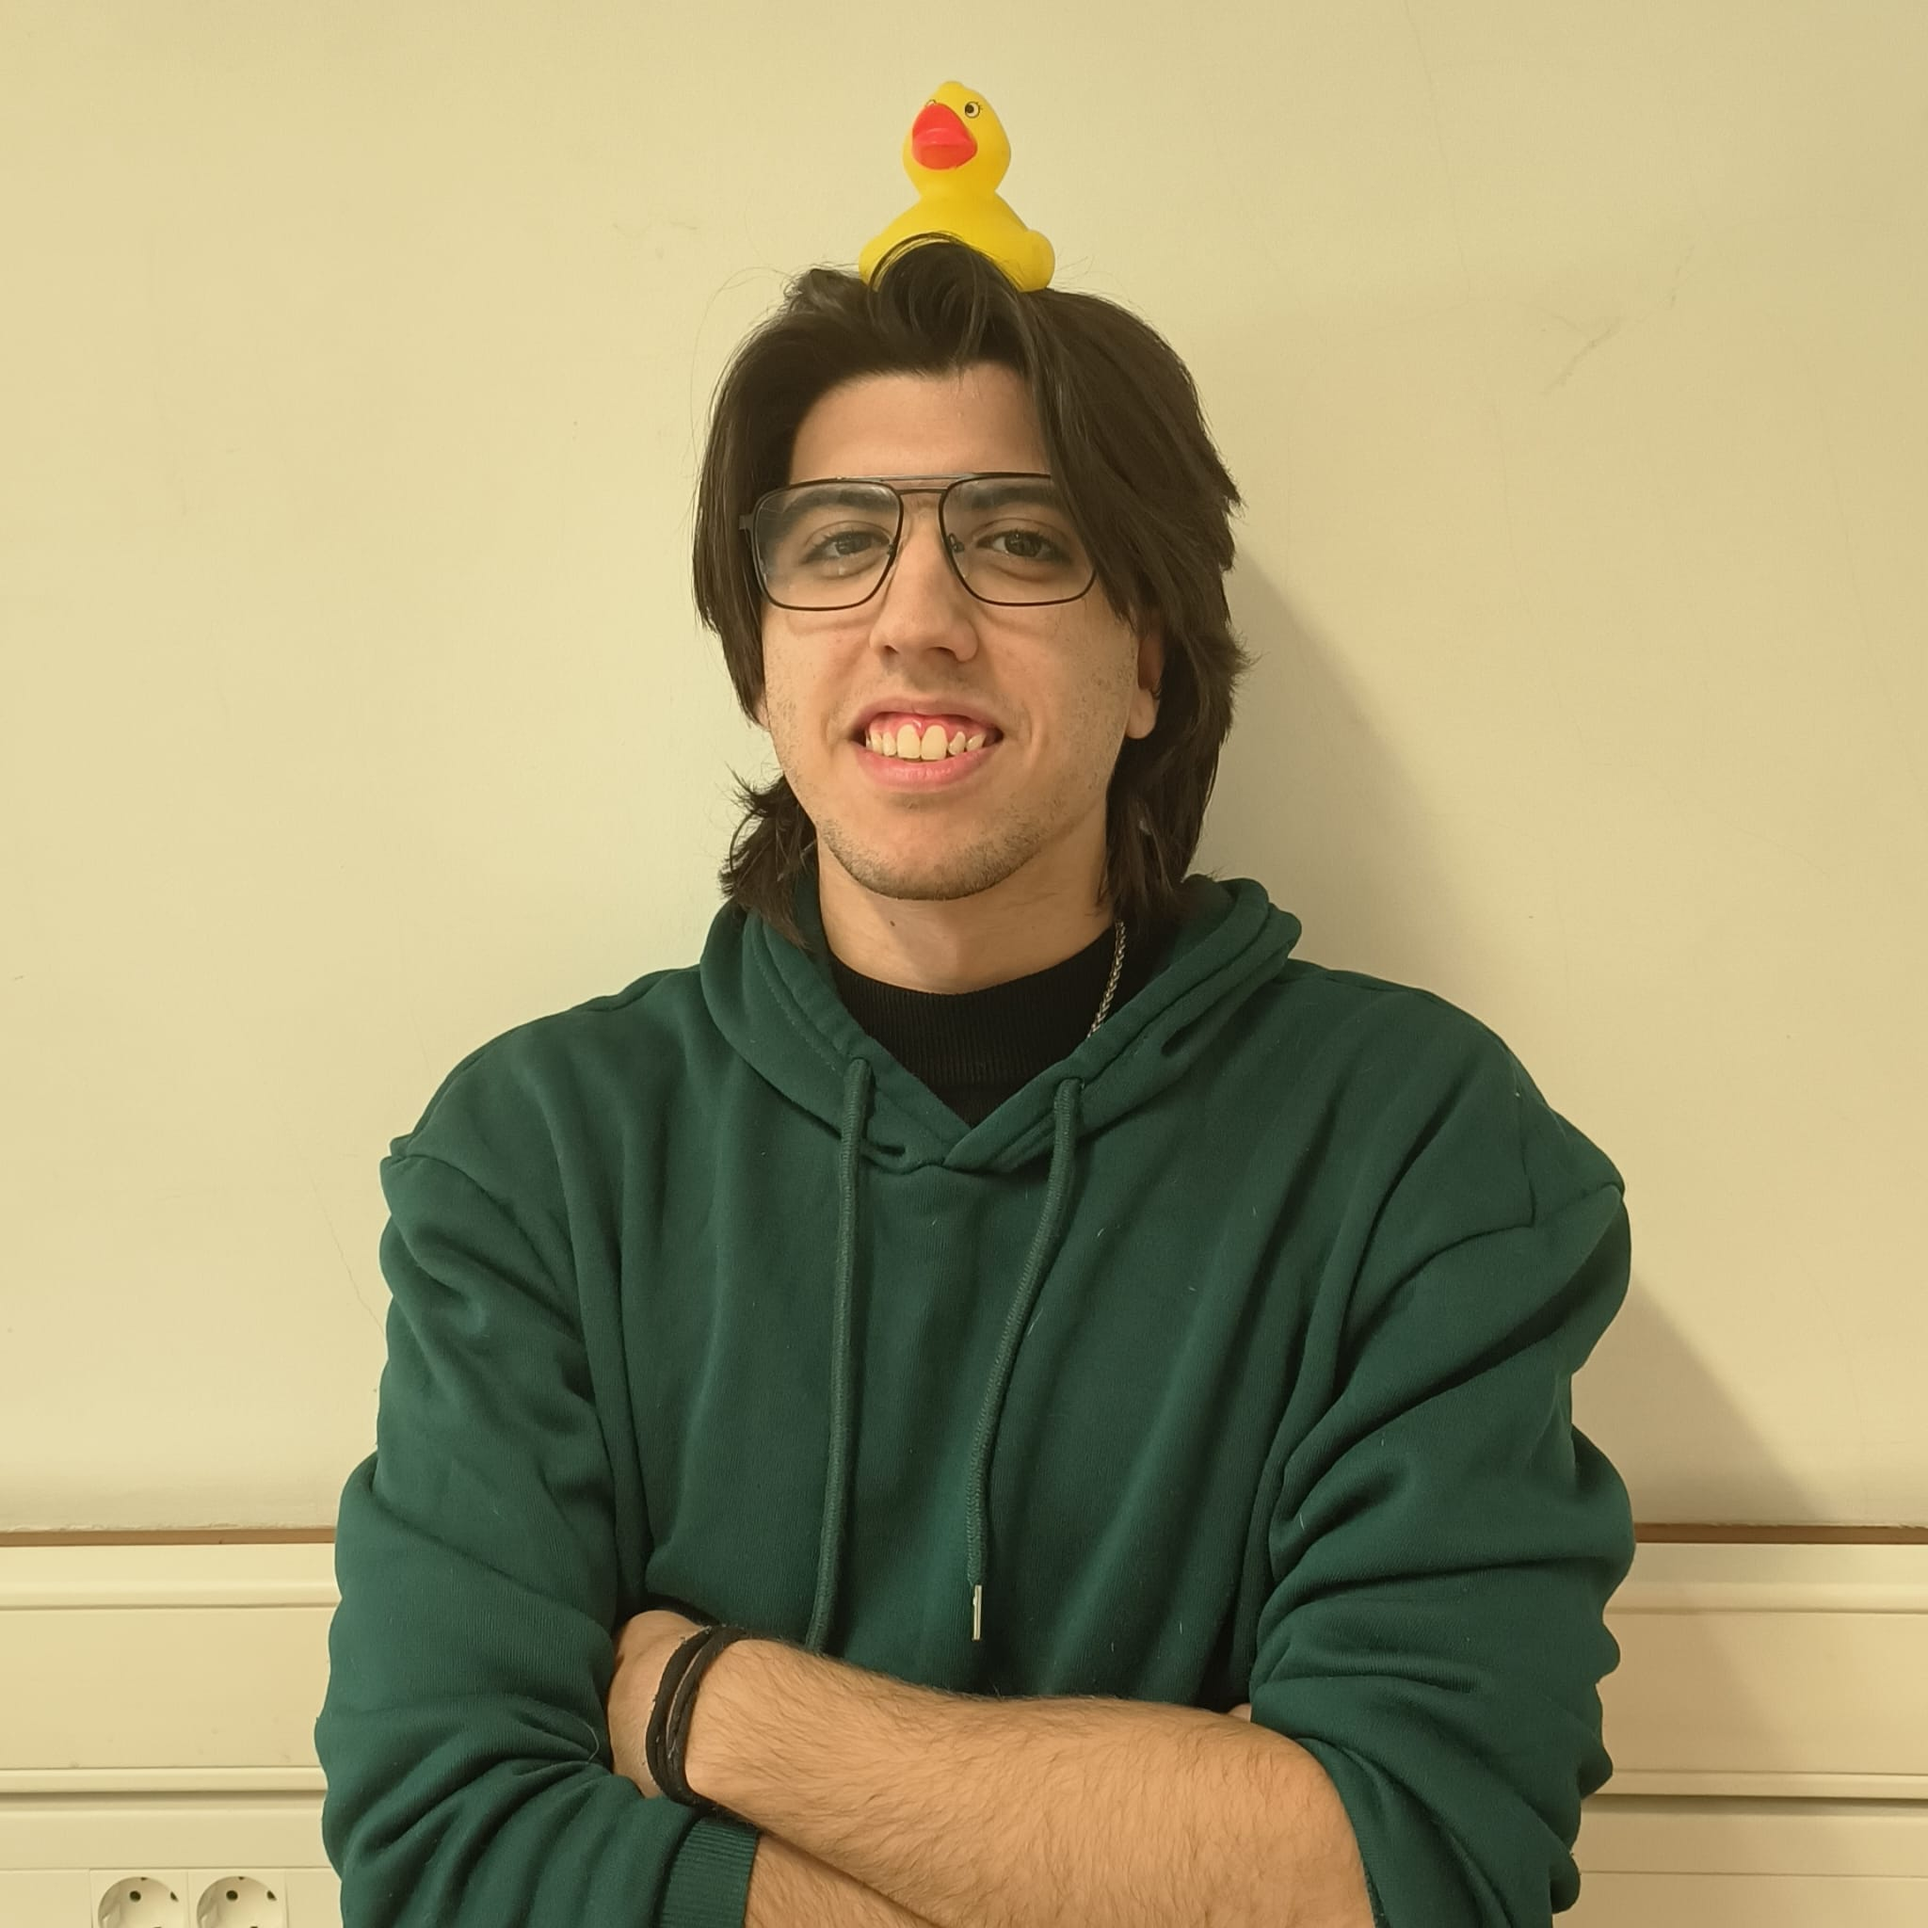
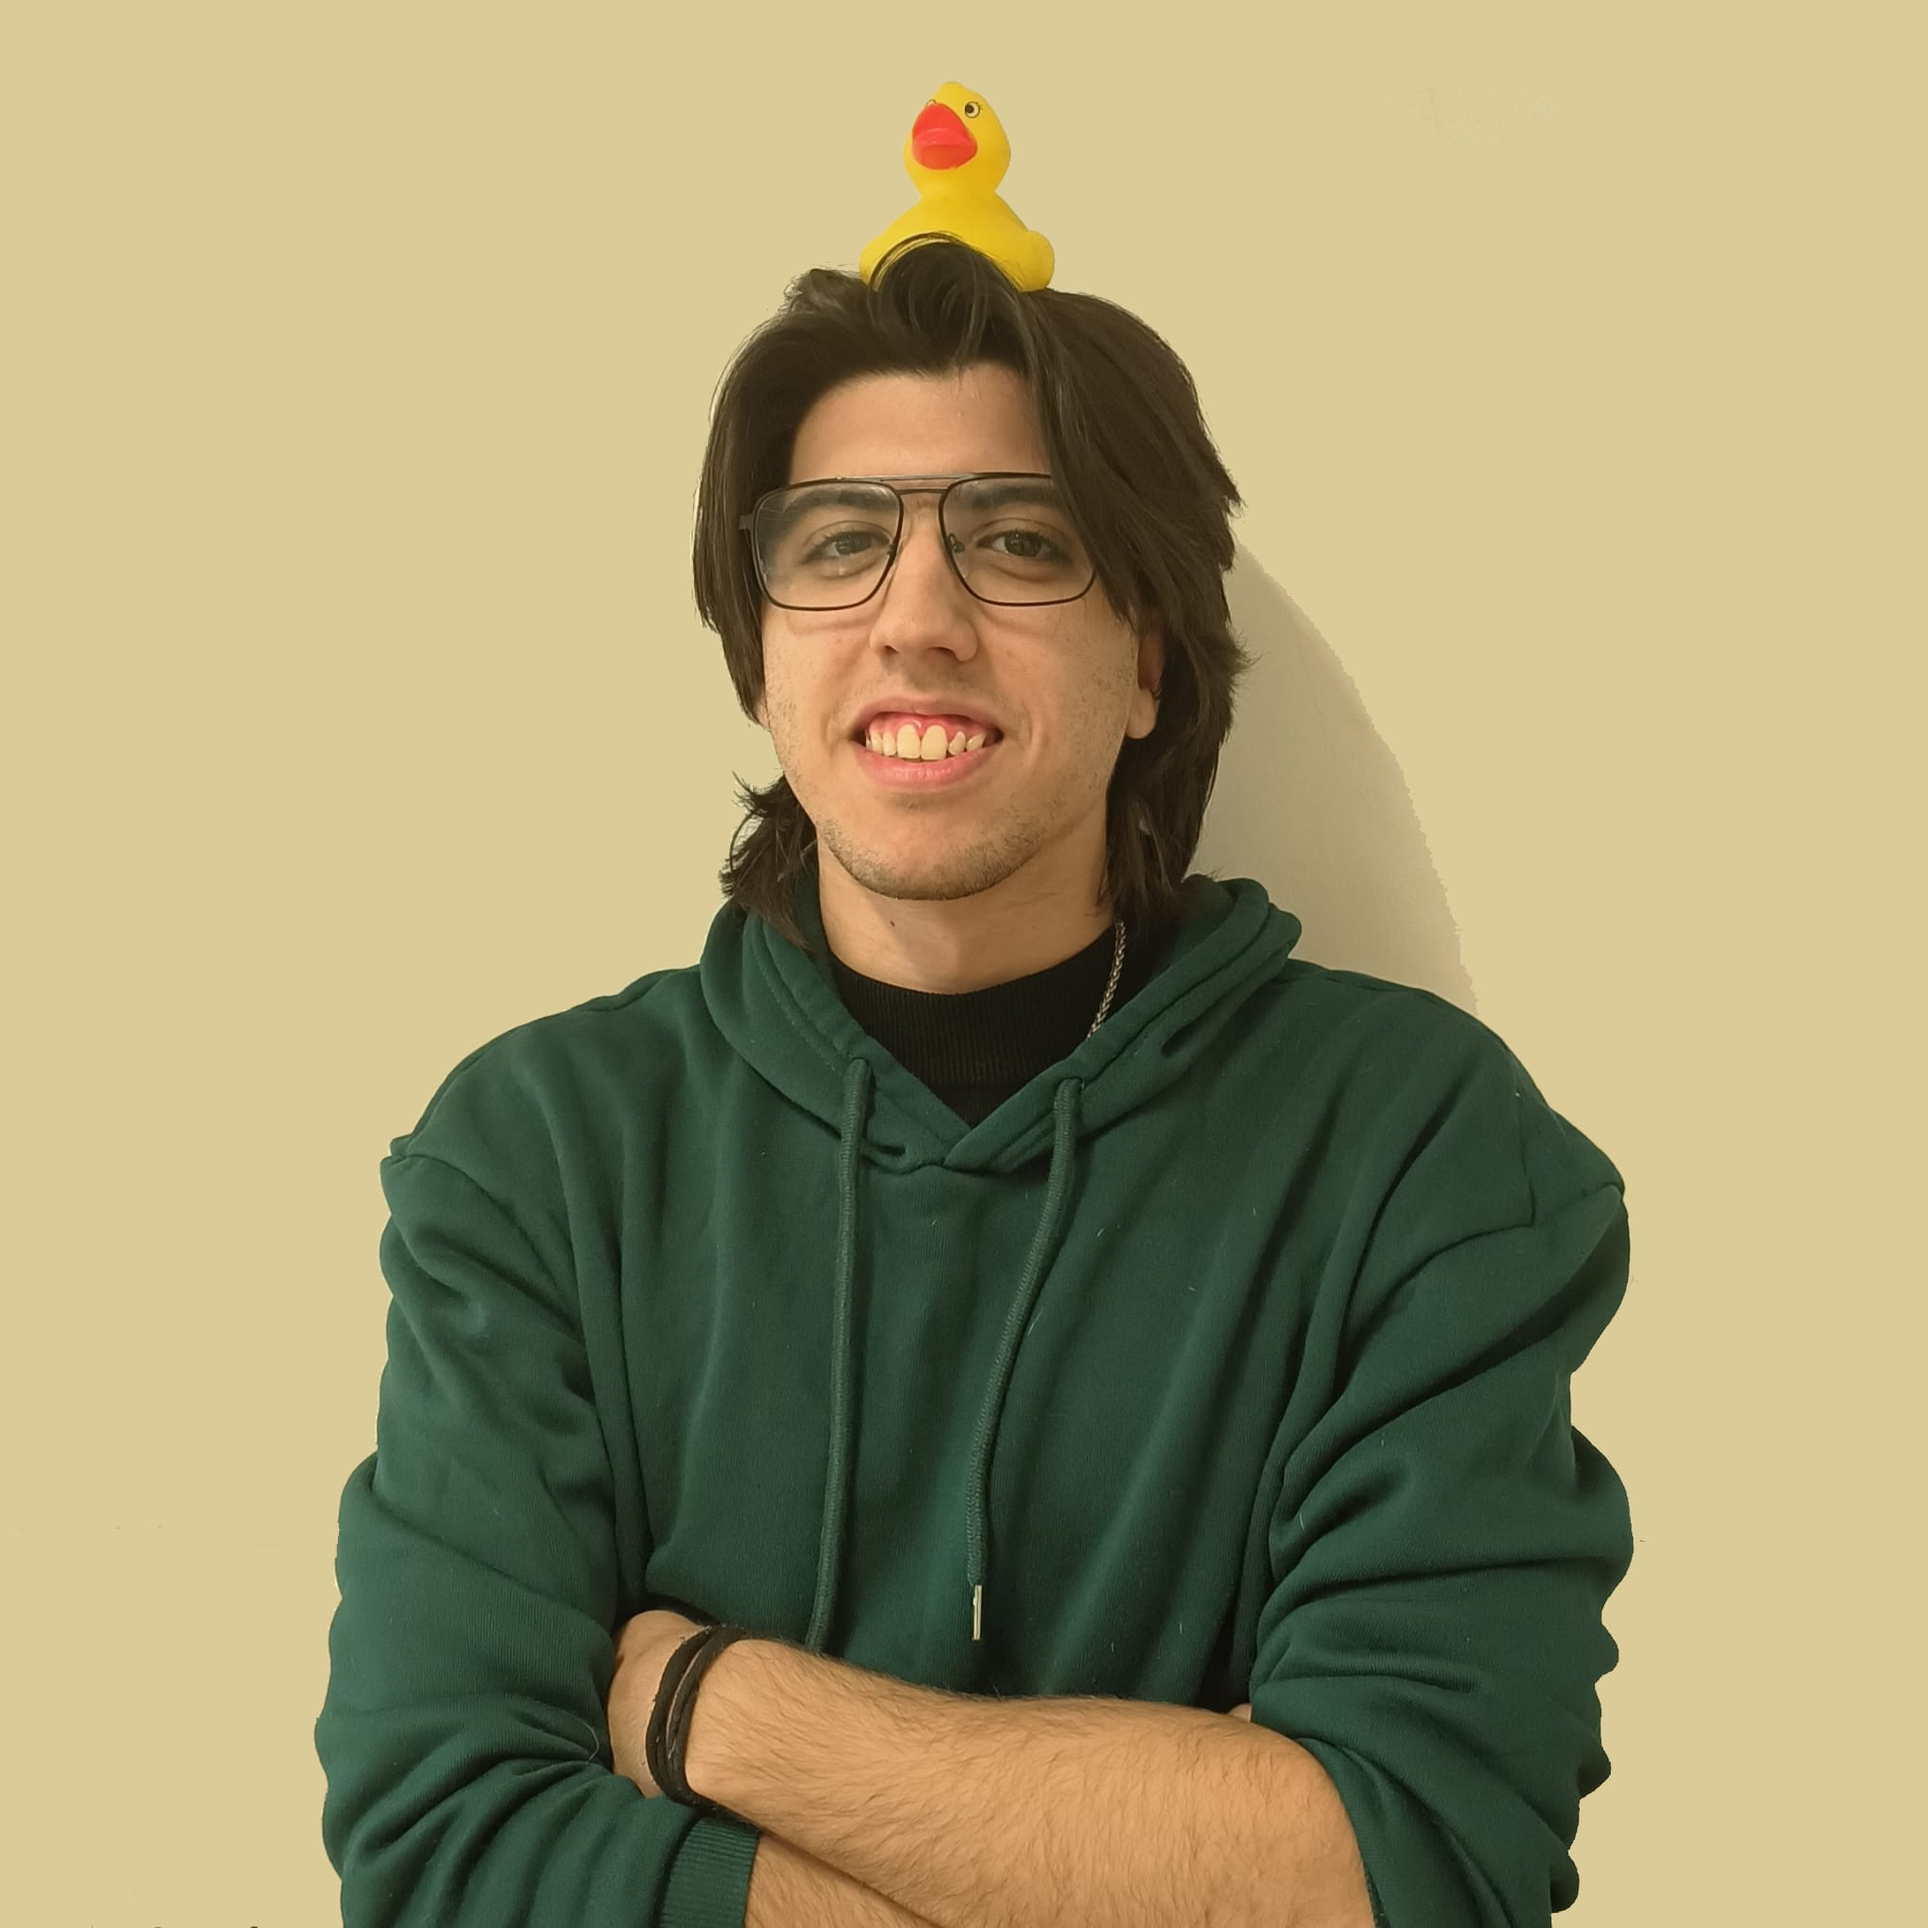
Alterações no about

diff --git a/quack/app/about/page.tsx b/quack/app/about/page.tsx
@@ -4,36 +4,37 @@ import Link from 'next/link'
 import Image from 'next/image';
 import React from 'react'
 import { useState, useEffect } from 'react'
-
 import logo from "@/Images/QuackLogo.png"
 import dp from "@/Images/Dionisiopato.jpeg"
 import afp from "@/Images/Afonsopato.jpeg"
 import ap from "@/Images/Andreiapato.jpeg"
 import fp from "@/Images/FIlipapato.jpeg"
-import fundopatos from "@/Images/patosfundoabout.jpeg"
+import fundopatos from "../../public/patosfundoabout.jpeg"
 import patosemfundo from "@/Images/QuackLogo-removebg-preview.png"
 
 
 
 const About = () => {
   return (
-    <div className='flex flex-col h-screen'>
-      <div className="flex-1 bg-cover bg-center bg-fixed" 
-           style={{backgroundImage: 'url("/@/Images/patosfundoabout.jpeg")'}} >
-
-        <div className='bg-stone-300 w-3/12 h-5/6 ml-14 mt-10 pl-2'>
-        <Image src={patosemfundo} alt ="Quack Logo" width={105} height={100} className='mb-2 ml-2 pt-2 pb-0.5'></Image>
-        <p className=' text-3xl font-bold'>A tua empresa patastica!</p>
-        <p className=' mt-3'>Quack Quack Quack Quack Quack Quack Quack Quack Quack Quack Quack Quack Quack Quack Quack Quack Quack Quack Quack Quack Quack Quack Quack Quack Quack Quack Quack Quack</p>
-        <button className='bg-yellow-500 hover:bg-yellow-600 text-black font-bold py-2 px-4 rounded mt-4'>Contact us!</button>
-
-        </div>
-
-
+    <div className='flex flex-col'>
+      <div className='min-h-screen relative' >
+    <div className=''>
+      <Image src={fundopatos} alt="background image" className='w-full h-full object-cover' layout="fill" />
+    </div>
+    <div className='bg-stone-100 shadow-[0px_5px_48px_rgba(0,0,0,0.20)] w-3/12 h-6/6 ml-14 mt-10 pl-2  inseert-0 z-10 relative'>
+      <Image src={patosemfundo} alt="Quack Logo" width={105} height={100} className='mb-2 ml-2 pt-2 pb-0.5'></Image>
+      <p className='text-3xl font-bold'>A tua empresa patastica!</p>
+      <p className='mt-3'>Quack Quack Quack Quack Quack Quack Quack Quack Quack Quack Quack Quack Quack Quack Quack Quack Quack Quack Quack Quack Quack Quack Quack Quack Quack Quack Quack Quack</p>
+      <button className='bg-yellow-500 hover:bg-yellow-600 text-black font-bold py-2 px-4 rounded mt-4 flex-auto'>Contact us!</button>
+    </div>
     </div>
 
-      <div className="bg-yellow-100 flex flex-center justify-around items-center pt-10 pb-5">
-        <div className='md:flex justify-between  itens-center gap-20'>
+    
+
+    
+
+      <div className="bg-yellow-100 flex flex-center justify-self-end bottom-0 justify-around place-content-baseline items-center pt-10 pb-5">
+        <div className='md:flex justify-between itens-center gap-20'>
 
           <div className='justify-center'>
           <Image src={dp} alt ="Dionisio pato" className="size-36 object-cover"></Image>
@@ -55,7 +56,7 @@ const About = () => {
 
           <div>
           <Image src={fp} alt ="Filipa pato" className="size-36 object-cover"></Image>
-          <div>Filipa GOnçalves</div>
+          <div>Filipa Gonçalves</div>
           <div>CFO</div>
           </div>
 

diff --git a/quack/tailwind.config.ts b/quack/tailwind.config.ts
@@ -9,9 +9,8 @@ const config: Config = {
   theme: {
     extend: {
       backgroundImage: {
-        "gradient-radial": "radial-gradient(var(--tw-gradient-stops))",
-        "gradient-conic":
-          "conic-gradient(from 180deg at 50% 50%, var(--tw-gradient-stops))",
+        'patos-fundo': "url('/Images/patosfundoabout.jpeg')",
+        
       },
     },
   },

diff --git a/quack/app/about/styles.css b/quack/app/about/styles.css
@@ -1,0 +1,10 @@
+@tailwind base;
+@tailwind components;
+@tailwind utilities;
+
+
+
+.fundopato{
+  background-image: url(/quack/Images/patosfundoabout.jpeg) ;
+  background-image: cover;
+}

diff --git a/quack/app/globals.css b/quack/app/globals.css
@@ -31,3 +31,8 @@ body {
 
   }
 }
+
+.fundopato{
+  background-image: url(/quack/Images/patosfundoabout.jpeg) ;
+  background-image: cover;
+}
